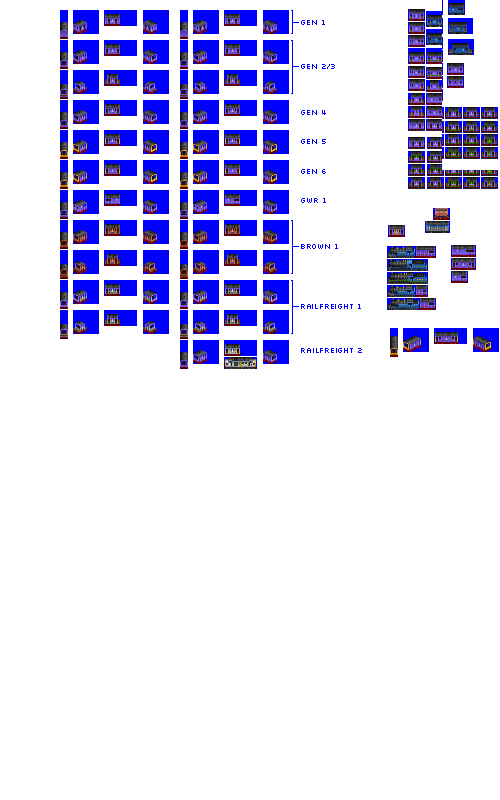
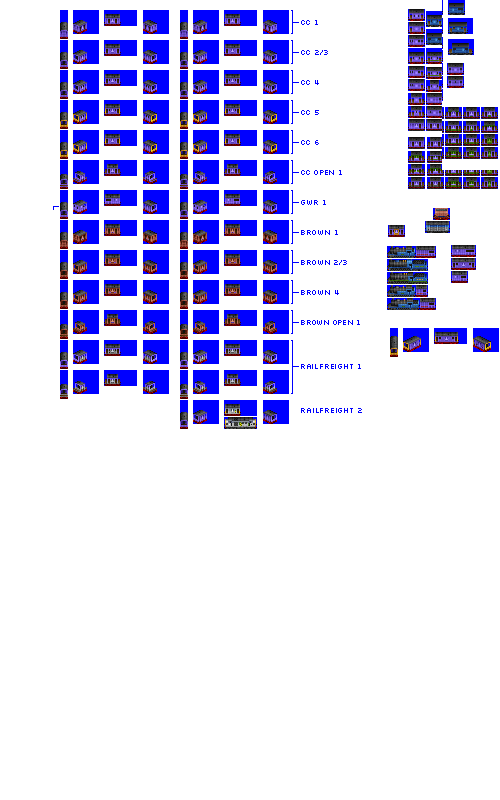
Change: finish brown variants for pony caboose cars

diff --git a/src/vehicles/caboose_cars.py b/src/vehicles/caboose_cars.py
@@ -57,12 +57,14 @@ def main():
     spriterow_labels = [
         "cc_enclosed_1",
         "cc_enclosed_2_3",
-        "cc_open_2_3",
         "cc_enclosed_4",
         "cc_enclosed_5",
         "cc_enclosed_6",
+        "cc_open_1",
         "gwr_1",
         "brown_enclosed_1",
+        "brown_enclosed_2_3",
+        "brown_enclosed_4",
         "brown_open_1",
         "railfreight_enclosed_1",
         "railfreight_open_1",
@@ -70,28 +72,28 @@ def main():
     ]
     # note that probability of a specific type within a family can be increased by repeating it in the list for that family
     caboose_families = {
-        "default_1": ["cc_enclosed_1"],
-        "default_2": ["cc_enclosed_2_3", "cc_enclosed_2_3", "cc_open_2_3"],
-        "default_3": ["cc_enclosed_2_3", "cc_open_2_3", "cc_open_2_3"],
+        "default_1": ["cc_enclosed_1", "brown_enclosed_1", "brown_enclosed_1", "cc_open_1", "brown_open_1"],
+        "default_2": ["cc_enclosed_2_3", "brown_enclosed_2_3", "cc_open_1", "brown_open_1"],
+        "default_3": ["cc_enclosed_2_3", "brown_enclosed_2_3", "cc_open_1", "cc_open_1", "brown_open_1"],
         "default_4": [
             "cc_enclosed_4",
-            "brown_enclosed_1",
+            "brown_enclosed_4",
             "brown_open_1",
-            "cc_open_2_3",
+            "cc_open_1",
         ],
         "default_5": [
             "cc_enclosed_5",
             "brown_enclosed_1",
             "brown_open_1",
-            "cc_open_2_3",
+            "cc_open_1",
         ],
-        "default_6": ["cc_enclosed_6", "cc_open_2_3"],
-        "gwr_1": ["gwr_1", "gwr_1", "brown_enclosed_1"],
+        "default_6": ["cc_enclosed_6", "cc_open_1"],
+        "gwr_1": ["gwr_1", "gwr_1", "brown_enclosed_2_3"],
         "railfreight_1": [
             "railfreight_enclosed_1",
             "railfreight_open_1",
             "railfreight_open_1",
-            "brown_enclosed_1",
+            "brown_enclosed_4",
             "brown_open_1",
             "brown_open_1",
         ],
@@ -99,12 +101,12 @@ def main():
     }
     # these should match the number of default families, in order
     buy_menu_sprite_pairs = [
-        ("cc_enclosed_1", "cc_enclosed_1"),
-        ("cc_enclosed_2_3", "cc_open_2_3"),
-        ("cc_enclosed_2_3", "cc_open_2_3"),
-        ("cc_enclosed_4", "cc_open_2_3"),
-        ("cc_enclosed_5", "cc_open_2_3"),
-        ("cc_enclosed_6", "cc_open_2_3"),
+        ("cc_enclosed_1", "brown_open_1"),
+        ("cc_enclosed_2_3", "brown_enclosed_2_3"),
+        ("cc_enclosed_2_3", "brown_open_1"),
+        ("cc_enclosed_4", "cc_open_1"),
+        ("cc_enclosed_5", "cc_open_1"),
+        ("cc_enclosed_6", "cc_open_1"),
     ]
 
     consist = CabooseCarConsist(
